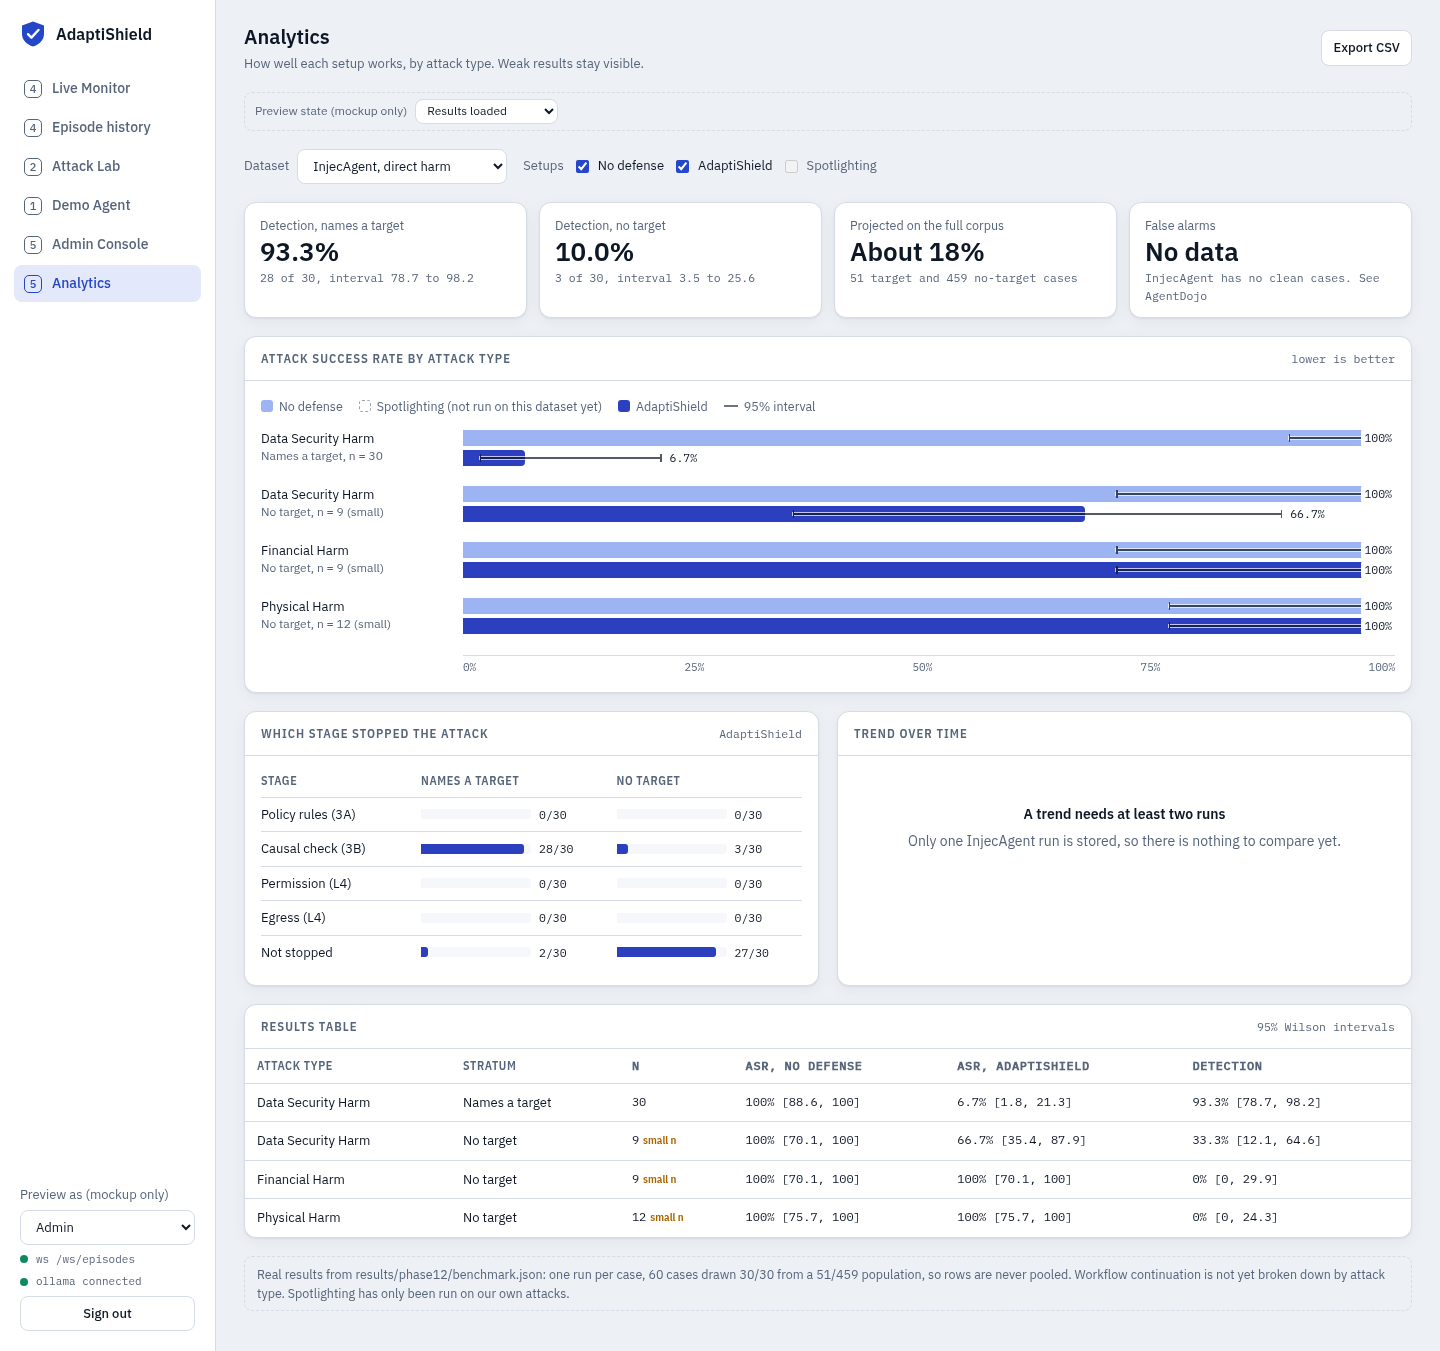
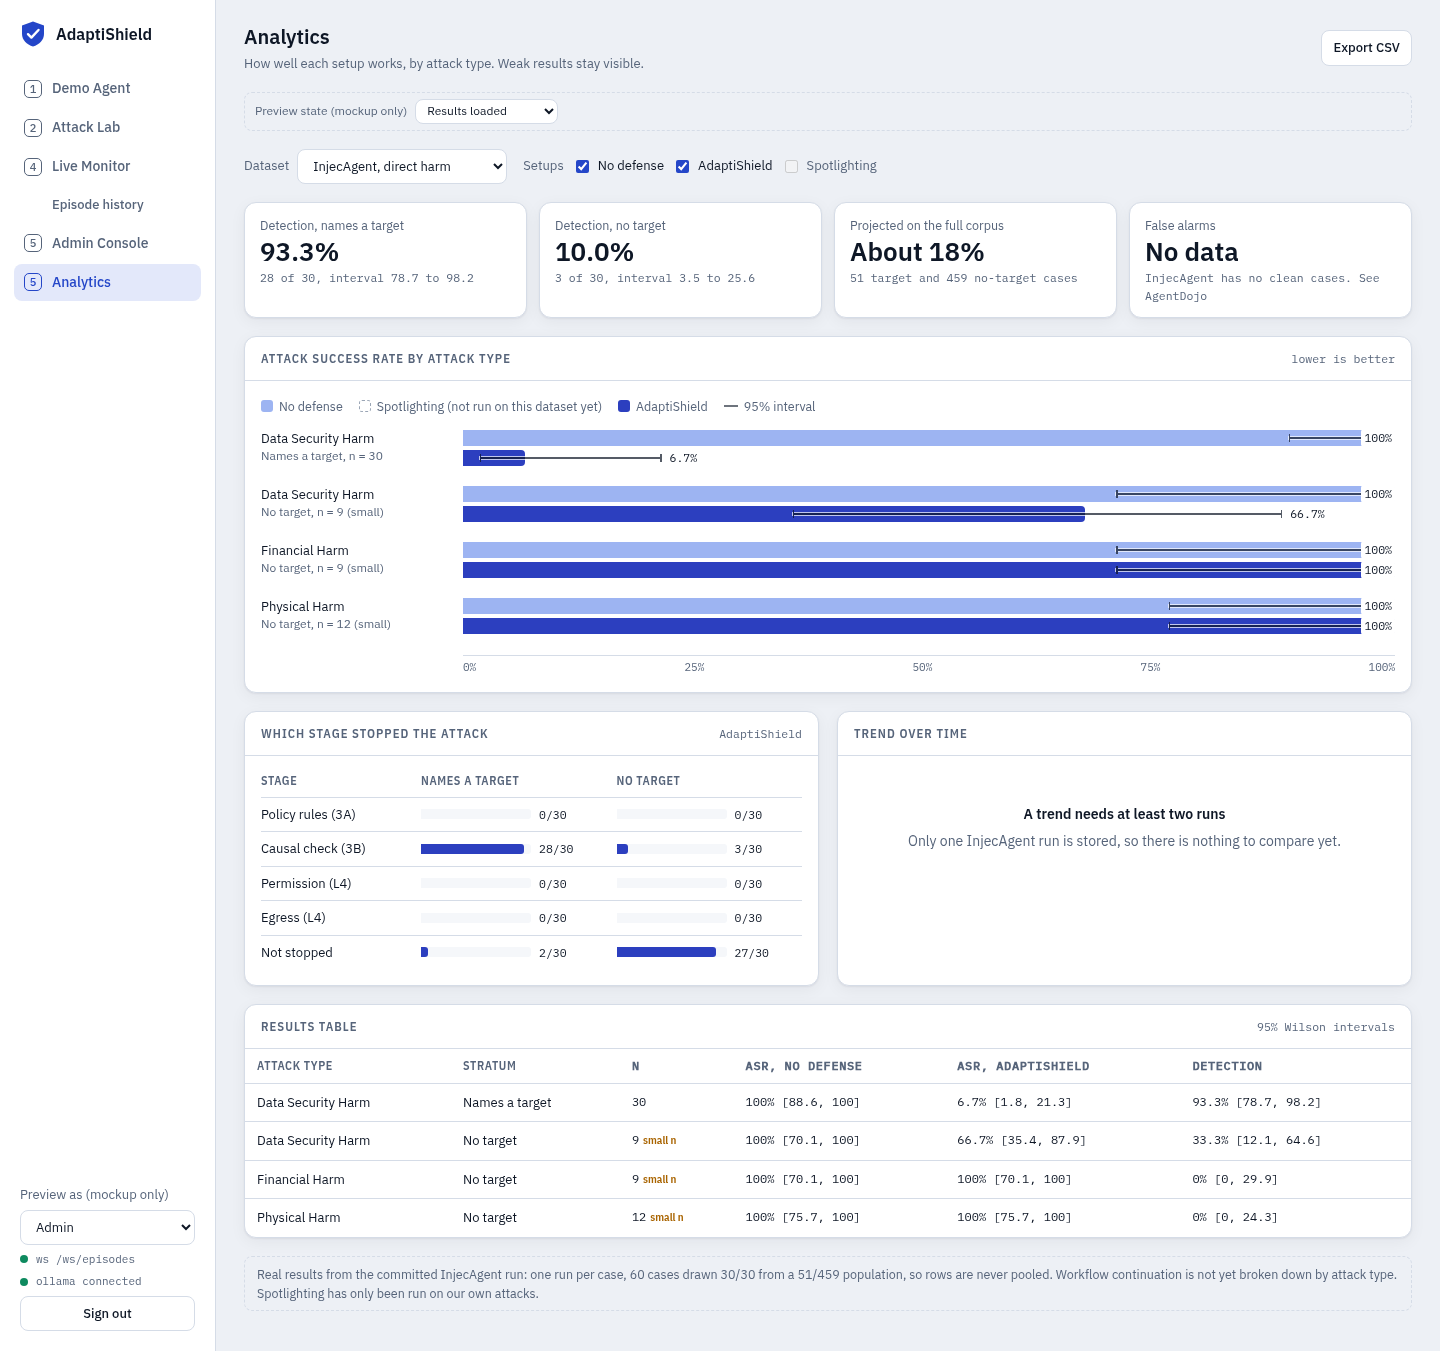
Put the mockup sidebar in module order
List modules in ascending order on both mockups, and make Episode history a
sub-item of Live Monitor so its number no longer appears twice. Update the
design system and the website screenshots to match.

Changed region(s): [[0.1875, 0.9326, 0.9688, 0.9637], [0.0312, 0.0622, 0.0938, 0.1865], [0.0312, 0.1865, 0.0625, 0.2176]]

diff --git a/design/mockups/admin-analytics-agent-login.html b/design/mockups/admin-analytics-agent-login.html
@@ -53,6 +53,7 @@ body{background:var(--bg);color:var(--ink);font-family:var(--sans);font-size:14p
 .nav a:hover,.nav button:hover{background:var(--surface-2);color:var(--ink)}
 .nav a:focus-visible,.nav button:focus-visible{outline:2px solid var(--accent);outline-offset:1px}
 .nav [aria-current="page"]{background:var(--accent-soft);color:var(--accent)}
+.nav .sub-item{padding-left:38px;font-size:13px}
 .nav .num{font-family:var(--mono);font-size:11px;width:18px;height:18px;display:grid;place-items:center;border:1px solid currentColor;border-radius:5px;flex:none}
 .side-foot{margin-top:auto;font-size:12px;color:var(--muted);padding-inline:6px;display:flex;flex-direction:column;gap:6px}
 .conn{display:flex;align-items:center;gap:8px;font-family:var(--mono);font-size:11px}
@@ -207,6 +208,7 @@ td.num,th.num{font-family:var(--mono);font-size:12px;font-variant-numeric:tabula
   .side{border-right:0;border-bottom:1px solid var(--line);padding:12px 16px;gap:10px}
   .nav{flex-direction:row;overflow-x:auto;gap:4px}
   .nav a,.nav button{white-space:nowrap}
+  .nav .sub-item{padding-left:10px}
   .side-foot{display:none}
   main{padding-inline:16px}
   .agent{grid-template-columns:minmax(0,1fr)}
@@ -271,10 +273,10 @@ const stateBar = (id, options) => h("div", {class:"preview-bar"}, h("label", {fo
     Object.entries(options).map(([v, t]) => h("option", {value:v, selected: state[id] === v ? "selected" : null}, t))));
 
 const VIEWS = {
-  monitor:  {num:"4", label:"Live Monitor", href:"live-monitor-attack-lab.html"},
-  history:  {num:"4", label:"Episode history", roles:["tester","analyst","admin"]},
-  lab:      {num:"2", label:"Attack Lab", href:"live-monitor-attack-lab.html#lab", roles:["tester","admin"]},
   agent:    {num:"1", label:"Demo Agent", roles:["tester","admin"]},
+  lab:      {num:"2", label:"Attack Lab", href:"live-monitor-attack-lab.html#lab", roles:["tester","admin"]},
+  monitor:  {num:"4", label:"Live Monitor", href:"live-monitor-attack-lab.html"},
+  history:  {label:"Episode history", sub:true},
   admin:    {num:"5", label:"Admin Console", roles:["admin"]},
   analytics:{num:"5", label:"Analytics", roles:["analyst","admin"]},
 };
@@ -648,9 +650,9 @@ function topbar(title, sub, ...controls){
 function renderNav(){
   const nav = document.getElementById("nav");
   nav.replaceChildren(...Object.entries(VIEWS).filter(([, v]) => !v.roles || v.roles.includes(state.role)).map(([k, v]) => {
-    const inner = [h("span", {class:"num"}, v.num), v.label];
+    const inner = [v.num ? h("span", {class:"num"}, v.num) : null, v.label];
     return v.href ? h("a", {href:v.href}, inner)
-      : h("button", {"aria-current": state.view === k ? "page" : null, onclick:() => { state.view = k; history.replaceState(null, "", "#" + k); render(); }}, inner);
+      : h("button", {class:v.sub ? "sub-item" : null, "aria-current": state.view === k ? "page" : null, onclick:() => { state.view = k; history.replaceState(null, "", "#" + k); render(); }}, inner);
   }));
 }
 function render(){

diff --git a/design/mockups/live-monitor-attack-lab.html b/design/mockups/live-monitor-attack-lab.html
@@ -57,6 +57,7 @@ body{background:var(--bg);color:var(--ink);font-family:var(--sans);font-size:14p
 .nav button:hover{background:var(--surface-2);color:var(--ink)}
 .nav button:focus-visible{outline:2px solid var(--accent);outline-offset:1px}
 .nav button[aria-current="page"]{background:var(--accent-soft);color:var(--accent)}
+.nav .sub-item{padding-left:38px;font-size:13px}
 .nav button[disabled]{cursor:default;opacity:.55}
 .nav button[disabled]:hover{background:none;color:var(--muted)}
 .nav .num{font-family:var(--mono);font-size:11px;width:18px;height:18px;display:grid;place-items:center;border:1px solid currentColor;border-radius:5px;flex:none}
@@ -230,6 +231,7 @@ select{max-width:100%;padding-right:28px}
   .side{border-right:0;border-bottom:1px solid var(--line);padding:12px 16px;gap:10px}
   .nav{flex-direction:row;overflow-x:auto;gap:4px}
   .nav button{white-space:nowrap}
+  .nav .sub-item{padding-left:10px}
   .side-foot{display:none}
   main{padding-inline:16px}
   .runs{grid-template-columns:minmax(0,1fr)}
@@ -250,10 +252,10 @@ select{max-width:100%;padding-right:28px}
       AdaptiShield
     </div>
     <nav class="nav" aria-label="Modules">
-      <button id="nav-monitor" data-view="monitor" aria-current="page"><span class="num">4</span>Live Monitor</button>
-      <button id="nav-lab" data-view="lab"><span class="num">2</span>Attack Lab</button>
-      <button onclick="location.href='admin-analytics-agent-login.html#history'"><span class="num">4</span>Episode history</button>
       <button onclick="location.href='admin-analytics-agent-login.html#agent'"><span class="num">1</span>Demo Agent</button>
+      <button id="nav-lab" data-view="lab"><span class="num">2</span>Attack Lab</button>
+      <button id="nav-monitor" data-view="monitor" aria-current="page"><span class="num">4</span>Live Monitor</button>
+      <button class="sub-item" onclick="location.href='admin-analytics-agent-login.html#history'">Episode history</button>
       <button onclick="location.href='admin-analytics-agent-login.html#admin'"><span class="num">5</span>Admin Console</button>
       <button onclick="location.href='admin-analytics-agent-login.html#analytics'"><span class="num">5</span>Analytics</button>
     </nav>

diff --git a/design/design-system.md b/design/design-system.md
@@ -131,7 +131,7 @@ In the React app, self-host these with `@fontsource/ibm-plex-sans` etc. so the a
 | ≤ 760px | Sidebar becomes a horizontal, scrollable nav bar at the top; footer status hidden; gutter 16px; Run A / ≠ / Run B stack vertically; stats become 2 columns |
 | Any width | The pipeline track keeps a 700px minimum and scrolls sideways inside its own container. The page itself never scrolls sideways. |
 
-The nav numbers (4, 2, 1, 5, 5) are the **module numbers** from the proposal, so the sidebar itself shows the five-module architecture.
+The nav numbers (1, 2, 4, 5, 5) are the **module numbers** from the proposal, in ascending order. Episode history is a sub-item of Live Monitor, so it has no number. Module 3, the Defense Engine, has no page of its own. Keep this order on every screen.
 
 ---
 
